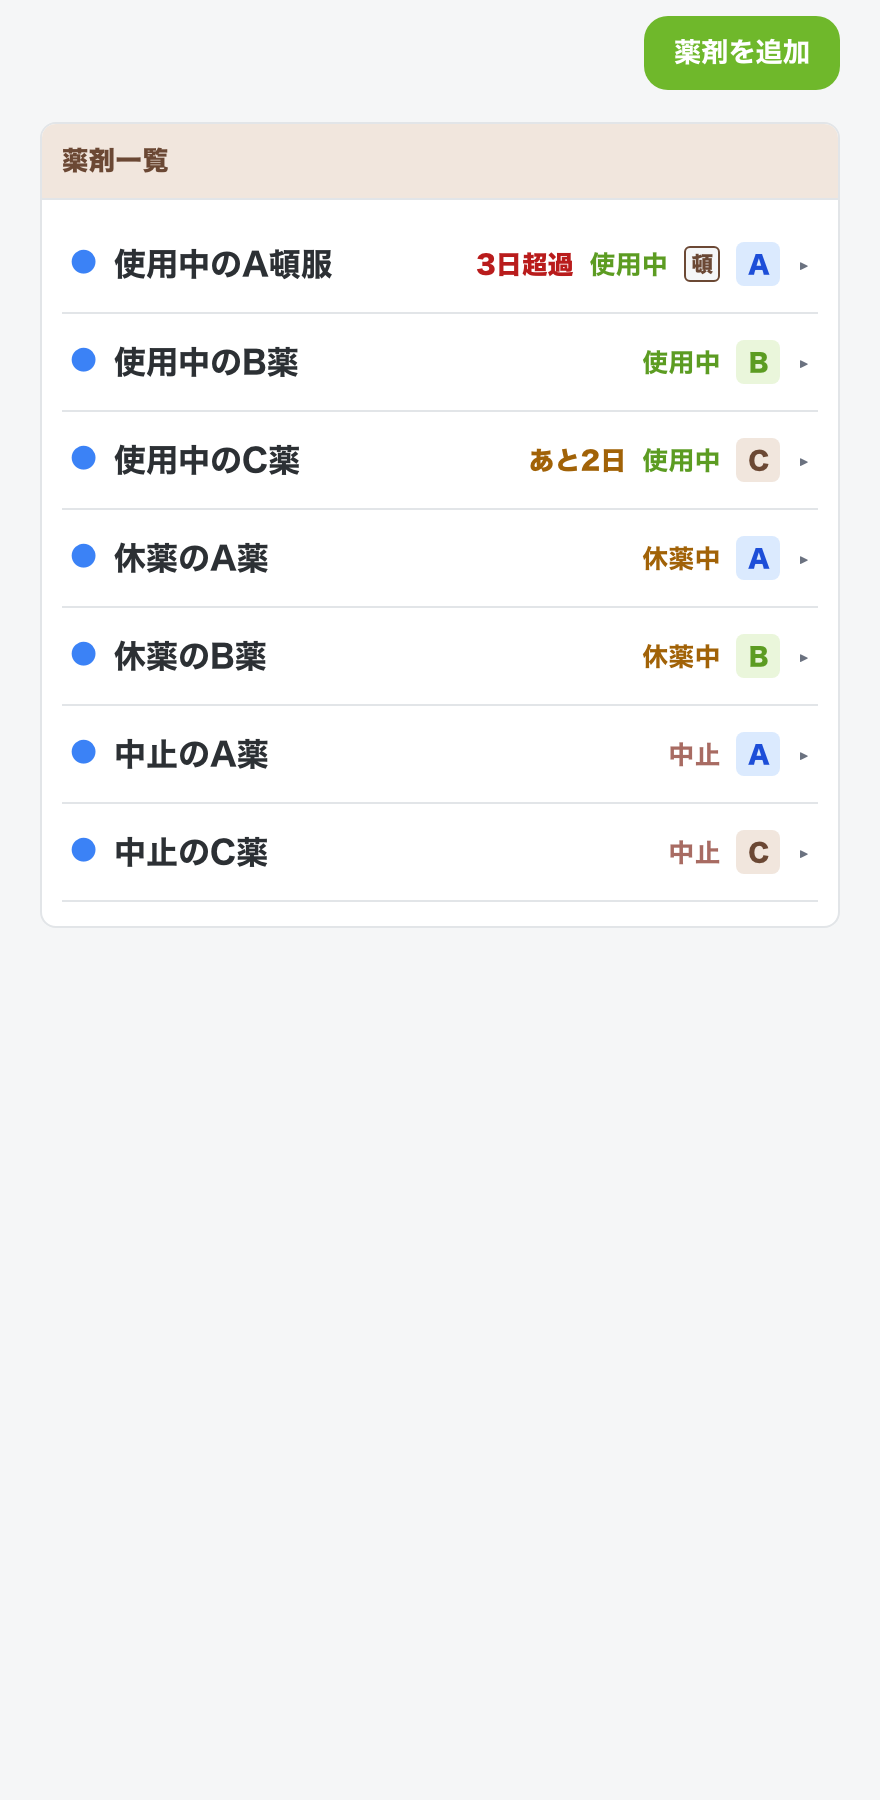
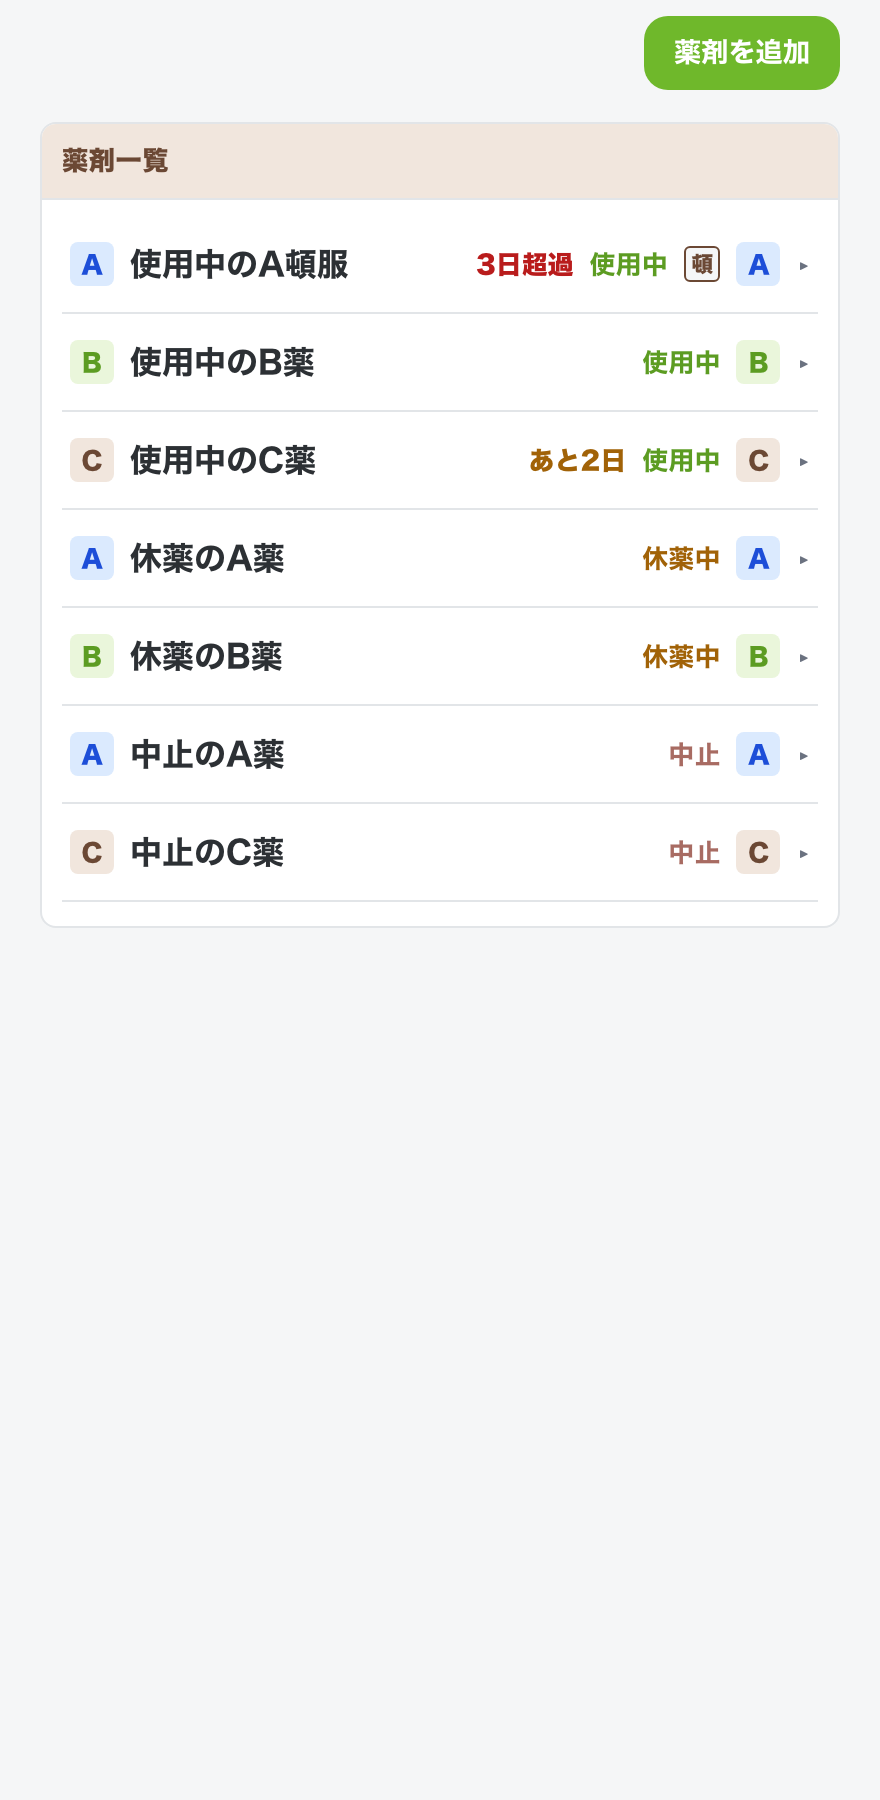
薬剤一覧の左端青丸をカテゴリ表示に置き換える。
使用状況→カテゴリ順の並びはそのまま維持する。

Changed region(s): [[0.0614, 0.1244, 0.3989, 0.4978]]

diff --git a/js/meds-ui.js b/js/meds-ui.js
@@ -517,7 +517,6 @@ function createDrugCard(drug) {
 
   const status = deriveStatus(drug);
   const expiryStatus = getExpiryStatus(drug.expiryEstimate);
-  const recent = hasRecentEvent(drug);
 
   if (expiryStatus === "overdue") li.classList.add("is-overdue");
   else if (expiryStatus === "approaching") li.classList.add("is-alert");
@@ -529,15 +528,12 @@ function createDrugCard(drug) {
   header.spellcheck = false;
   header.setAttribute("aria-haspopup", "dialog");
 
-  const signs = document.createElement("span");
-  signs.className = "med-card__signs";
-  if (recent) {
-    const recentSign = document.createElement("span");
-    recentSign.className = "med-sign med-sign--recent";
-    recentSign.title = "直近30日以内に出来事あり";
-    recentSign.textContent = "●";
-    signs.appendChild(recentSign);
-  }
+  // 左端: 重要度カテゴリ（旧・直近出来事の青丸の位置）
+  const leftCat = document.createElement("span");
+  leftCat.className = `med-cat med-cat--${drug.category} med-cat--leading`;
+  leftCat.textContent = drug.category;
+  leftCat.title = `重要度 ${drug.category}`;
+  leftCat.setAttribute("aria-label", `重要度 ${drug.category}`);
 
   const displayName = drug.name || "（名称未設定）";
   const nameEl = document.createElement("span");
@@ -557,7 +553,7 @@ function createDrugCard(drug) {
   chevron.className = "med-card__chevron";
   chevron.textContent = "▸";
 
-  header.append(signs, nameEl, statusEl);
+  header.append(leftCat, nameEl, statusEl);
   if (isPrnDrug(drug)) {
     const prnSign = document.createElement("span");
     prnSign.className = "med-sign med-sign--prn";

diff --git a/service-worker.js b/service-worker.js
@@ -8,7 +8,7 @@
 //
 // ※ CACHE_VERSION を上げるときは js/app-version.js の APP_VERSION / CACHE_LABEL も合わせて更新する。
 
-const CACHE_VERSION = "v161";
+const CACHE_VERSION = "v162";
 const CACHE_NAME = `nyuta-karte-log-${CACHE_VERSION}`;
 
 const APP_SHELL_FILES = [

diff --git a/js/app-version.js b/js/app-version.js
@@ -1,3 +1,3 @@
 // アプリの表示用バージョン。Service Worker の CACHE_VERSION と合わせて更新する。
-export const APP_VERSION = "1.11.8";
-export const CACHE_LABEL = "v161";
+export const APP_VERSION = "1.11.9";
+export const CACHE_LABEL = "v162";

diff --git a/css/style.css b/css/style.css
@@ -2357,6 +2357,10 @@ html.is-unlocked .app {
   gap: 2px;
 }
 
+.med-cat--leading {
+  flex-shrink: 0;
+}
+
 .med-sign--recent {
   color: #3b82f6;
   font-size: 0.85rem;
